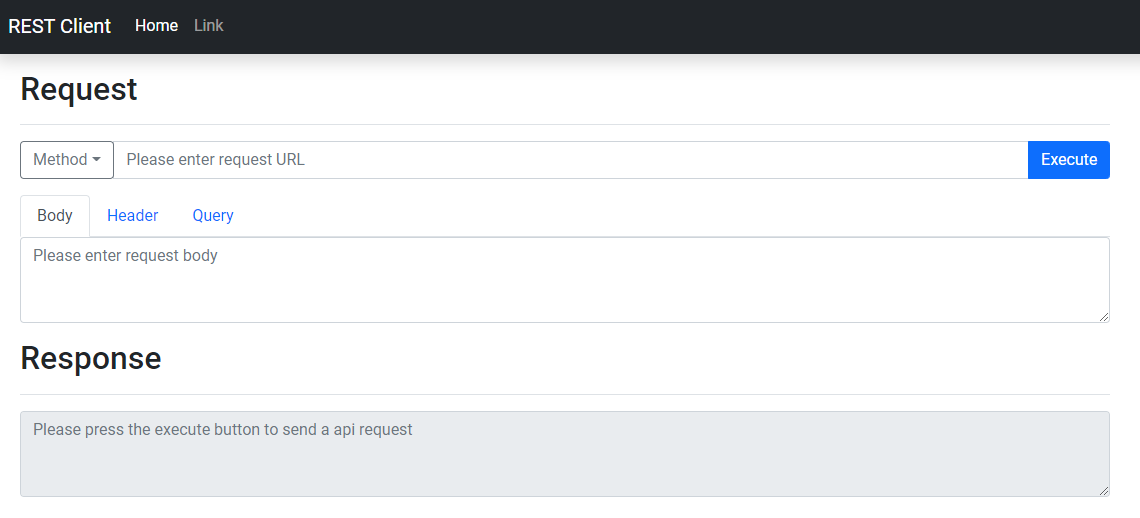
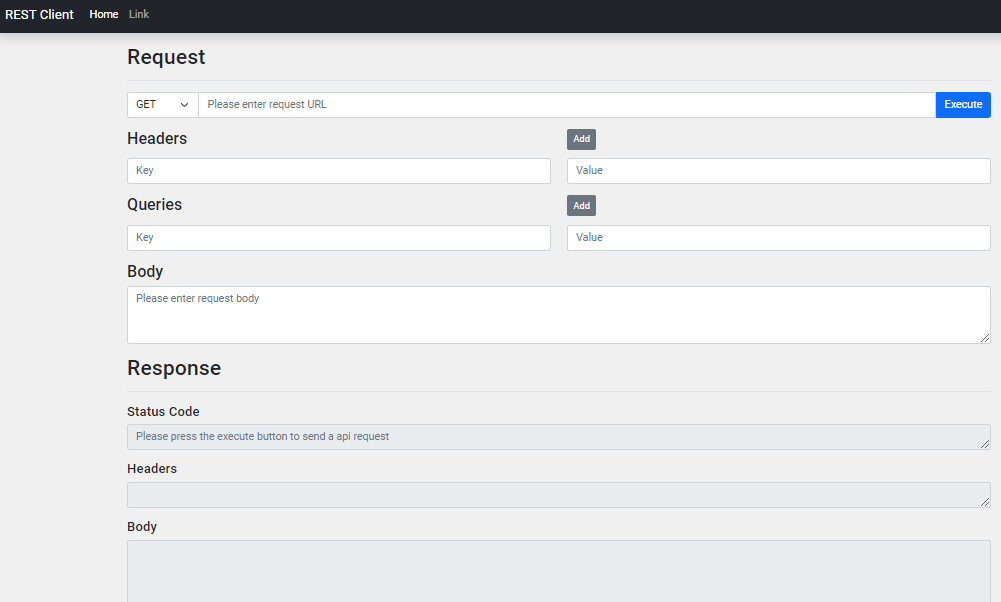
update html

diff --git a/src/app/client/client.component.html b/src/app/client/client.component.html
@@ -1,42 +1,102 @@
 <main role="main" class="col-md-9 ml-sm-auto col-lg-10 pt-3 px-4">
-    <div class="d-flex justify-content-between flex-wrap flex-md-nowrap align-items-center pb-2 mb-3 border-bottom">
-        <h1 class="h2">Request</h1>
+    <div class="container">
+        <div class="d-flex justify-content-between flex-wrap flex-md-nowrap align-items-center pb-2 mb-3 border-bottom">
+            <h1 class="h2">Request</h1>
+        </div>
     </div>
-    <div class="input-group mb-3">
-        <div class="input-group-prepend">
-            <button class="btn btn-outline-secondary dropdown-toggle" type="button" data-toggle="dropdown"
-                aria-haspopup="true" aria-expanded="false">Method</button>
-            <div class="dropdown-menu">
-                <a class="dropdown-item" href="#">Action</a>
-                <a class="dropdown-item" href="#">Another action</a>
-                <a class="dropdown-item" href="#">Something else here</a>
-                <div role="separator" class="dropdown-divider"></div>
-                <a class="dropdown-item" href="#">Separated link</a>
+
+    <!-- Request URL Input Form-->
+    <div class="container">
+        <div class="input-group mb-3">
+            <!-- Request Method Button -->
+            <div class="col-auto">
+                <select class="form-select">
+                    <option *ngFor="let method of methods">{{method}}</option>
+                </select>
+            </div>
+            <!-- Request URL Input Form And Button-->
+            <input type="text" class="form-control" placeholder="Please enter request URL"
+                aria-label="Text input with dropdown button">
+            <button class="btn btn-primary" type="button">Execute</button>
+        </div>
+    </div>
+
+    <!-- Request Parameter Navigation Bar -->
+    <!-- <ul ngbNav #nav="ngbNav" class="nav-tabs mb-3">
+        <li ngbNavItem *ngFor="let reqParam of requestParams">
+            <a ngbNavLink>{{reqParam}}</a>
+        </li>
+        <textarea class="form-control" placeholder="Please enter request body" rows="3"></textarea>
+    </ul> -->
+
+    <!-- Request Parameters -->
+    <div class="container mb-3">
+        <div class="row mb-2">
+            <div class="col">
+                <h1 class="h4">Headers</h1>
+            </div>
+            <div class="col">
+                <button type="button" class="btn btn-secondary btn-sm float-right">Add</button>
             </div>
         </div>
-        <input type="text" class="form-control" placeholder="Please enter request URL"
-            aria-label="Text input with dropdown button">
-        <button class="btn btn-primary" type="button">Execute</button>
-    </div>
-    <ul class="nav nav-tabs">
-        <li class="nav-item">
-            <a class="nav-link active" aria-current="page" href="#">Body</a>
-        </li>
-        <li class="nav-item">
-            <a class="nav-link" href="#">Header</a>
-        </li>
-        <li class="nav-item">
-            <a class="nav-link" href="#">Query</a>
-        </li>
-    </ul>
-
-    <div class="mb-3">
-        <textarea class="form-control" placeholder="Please enter request body" id="exampleFormControlTextarea1"
-            rows="3"></textarea>
+        <form>
+            <div class="row">
+                <div class="col">
+                    <input type="text" class="form-control" placeholder="Key">
+                </div>
+                <div class="col">
+                    <input type="text" class="form-control" placeholder="Value">
+                </div>
+            </div>
+        </form>
     </div>
 
-    <div class="d-flex justify-content-between flex-wrap flex-md-nowrap align-items-center pb-2 mb-3 border-bottom">
-        <h1 class="h2">Response</h1>
+    <div class="container mb-3">
+        <div class="row mb-2">
+            <div class="col">
+                <h1 class="h4">Queries</h1>
+            </div>
+            <div class="col">
+                <button type="button" class="btn btn-secondary btn-sm float-right">Add</button>
+            </div>
+        </div>
+        <form>
+            <div class="row">
+                <div class="col">
+                    <input type="text" class="form-control" placeholder="Key">
+                </div>
+                <div class="col">
+                    <input type="text" class="form-control" placeholder="Value">
+                </div>
+            </div>
+        </form>
     </div>
-    <textarea class="form-control" readonly placeholder="Please press the execute button to send a api request" id="exampleFormControlTextarea1" rows="3"></textarea>
+
+    <div class="container mb-3">
+        <h1 class="h4">Body</h1>
+        <textarea class="form-control" placeholder="Please enter request body" rows="3"></textarea>
+    </div>
+
+    <!-- Response -->
+    <div class="container">
+        <div class="d-flex justify-content-between flex-wrap flex-md-nowrap align-items-center pb-2 mb-3 border-bottom">
+            <h1 class="h2">Response</h1>
+        </div>
+
+        <div class="mb-3">
+            <h1 class="h5">Status Code</h1>
+            <textarea class="form-control" readonly placeholder="Please press the execute button to send a api request"
+                rows="1"></textarea>
+        </div>
+
+        <div class="mb-3">
+            <h1 class="h5">Headers</h1>
+            <textarea class="form-control" readonly rows="1"></textarea>
+        </div>
+
+        <div class="mb-3">
+            <h1 class="h5">Body</h1>
+            <textarea class="form-control" readonly rows="5"></textarea>
+        </div>
+    </div>
 </main>

diff --git a/src/app/app.module.ts b/src/app/app.module.ts
@@ -1,10 +1,7 @@
 import { NgModule } from '@angular/core';
 import { BrowserModule } from '@angular/platform-browser';
-import { MatIconModule } from '@angular/material/icon';
-import { MatToolbarModule } from '@angular/material/toolbar'
-import { MatSliderModule } from '@angular/material/slider';
-import { MatSidenavModule } from '@angular/material/sidenav';
-import { MatListModule } from '@angular/material/list';
+import { HttpClientModule } from '@angular/common/http';
+import { FormsModule }   from '@angular/forms';
 
 import { AppComponent } from './app.component';
 import { NgbModule } from '@ng-bootstrap/ng-bootstrap';
@@ -20,13 +17,10 @@ import { ClientComponent } from './client/client.component';
   ],
   imports: [
     BrowserModule,
+    HttpClientModule,
+    FormsModule,
     NgbModule,
-    BrowserAnimationsModule,
-    MatIconModule,
-    MatToolbarModule,
-    MatSliderModule,
-    MatSidenavModule,
-    MatListModule
+    BrowserAnimationsModule
   ],
   providers: [],
   bootstrap: [AppComponent]

diff --git a/src/app/client.service.ts b/src/app/client.service.ts
@@ -1,0 +1,26 @@
+import { Injectable } from '@angular/core';
+import { HttpClient, HttpHeaders } from '@angular/common/http';
+
+@Injectable({
+  providedIn: 'root'
+})
+export class ClientService {
+
+  host: string;
+
+  constructor(private http: HttpClient) {
+    this.host = "";
+  }
+
+  private httpOptions: any = {
+    headers: new HttpHeaders({
+      'Content-Type': 'application/json'
+    }),
+    observe: 'response',
+    body: null
+  };
+
+  get() {
+    this.http.get(this.host, this.httpOptions);
+  }
+}

diff --git a/src/app/client/client.component.ts b/src/app/client/client.component.ts
@@ -1,4 +1,5 @@
 import { Component, OnInit } from '@angular/core';
+import { ClientService } from '../client.service';
 
 @Component({
   selector: 'app-client',
@@ -6,7 +7,13 @@ import { Component, OnInit } from '@angular/core';
   styleUrls: ['./client.component.css']
 })
 export class ClientComponent implements OnInit {
-
+  methods = [
+    "GET", "POST", "PUT", "PATCH", "DELETE"
+  ];
+  requestParams = [
+    "Headers","Queries","Body"
+  ];
+  
   constructor() { }
 
   ngOnInit(): void {

diff --git a/src/app/client.service.spec.ts b/src/app/client.service.spec.ts
@@ -1,0 +1,16 @@
+import { TestBed } from '@angular/core/testing';
+
+import { ClientService } from './client.service';
+
+describe('ClientService', () => {
+  let service: ClientService;
+
+  beforeEach(() => {
+    TestBed.configureTestingModule({});
+    service = TestBed.inject(ClientService);
+  });
+
+  it('should be created', () => {
+    expect(service).toBeTruthy();
+  });
+});

diff --git a/src/app/header/header.component.ts b/src/app/header/header.component.ts
@@ -5,6 +5,7 @@ import { Component, OnInit } from '@angular/core';
   templateUrl: './header.component.html',
   styleUrls: ['./header.component.css']
 })
+
 export class HeaderComponent implements OnInit {
   header = 'REST Client';
 

diff --git a/src/styles.css b/src/styles.css
@@ -1,3 +1,3 @@
 
 html, body { height: 100%; }
-body { margin: 0; font-family: Roboto, "Helvetica Neue", sans-serif; }
+body { margin: 0; font-family: Roboto, "Helvetica Neue", sans-serif; background-color:rgb(240, 240, 240);}
